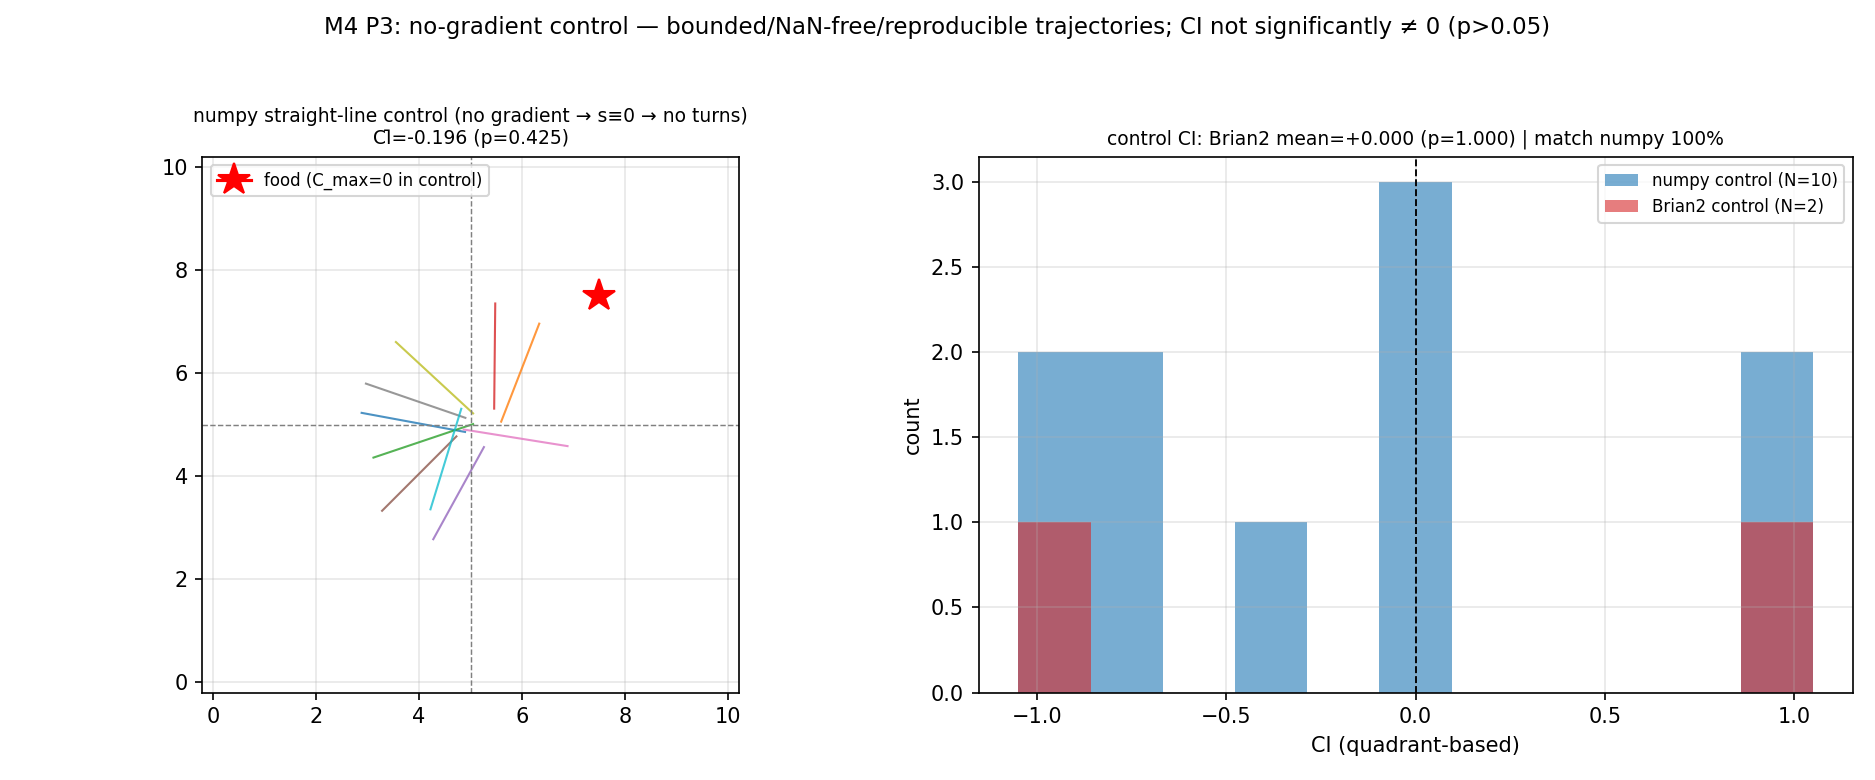
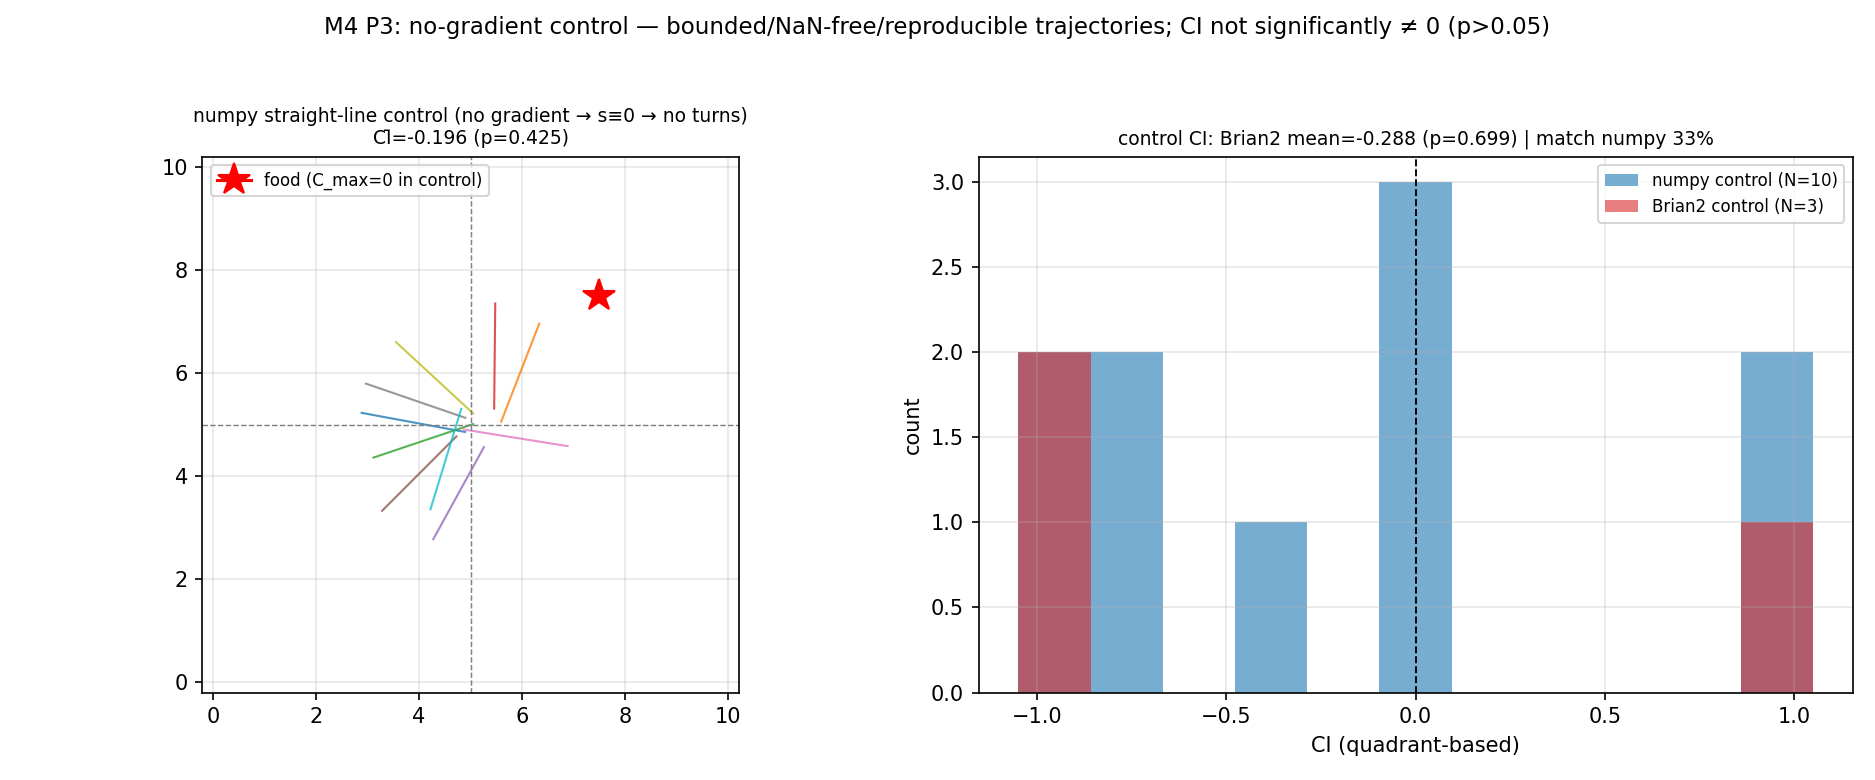
feat(M4): 验收后修正——P6b 按主agent裁决改协议限制记录型 pass、点5(θ=2e-6)部分结果纳入、P5 转向分离实证(2→0)、m4_report 更新

Changed region(s): [[0.5259, 0.4308, 0.5877, 0.6769], [0.5877, 0.1538, 0.928, 0.1846]]

diff --git a/neural_exploration/tools/validate_p5_chemotaxis_ablation.py b/neural_exploration/tools/validate_p5_chemotaxis_ablation.py
@@ -142,6 +142,50 @@ def _reuse_p5_from_csv() -> dict:
     )
 
 
+def _append_group_csv(label: str, m: dict):
+    """分块模式：把一组的逐试次行 + 组统计行追加到 CSV（幂等，重跑同组覆盖该组行）。"""
+    import csv as _csv
+    os.makedirs(DATA_DIR, exist_ok=True)
+    # 读出现有行（去掉该组旧行），保持 header
+    existing = []
+    if os.path.exists(REPORT_CSV):
+        with open(REPORT_CSV, encoding="utf-8") as f:
+            existing = [r for r in _csv.reader(f) if r]
+    header = ["group", "trial", "ci", "n_turn_events"]
+    stats_head = ["group", "ci_mean", "ci_sem", "p_value", "cohen_d",
+                  "total_turns", "turns_per_trial", "pass"]
+    keep = [r for r in existing if not (r and r[0] == label)]
+    with open(REPORT_CSV, "w", encoding="utf-8", newline="") as f:
+        w = _csv.writer(f)
+        w.writerow(header)
+        for r in keep:
+            if r != header and r != stats_head:
+                w.writerow(r)
+        for i, (ci, tn) in enumerate(zip(m["ci"], m["n_turns"])):
+            w.writerow([label, i, f"{ci:.6f}", tn])
+        w.writerow([label, f"{m['ci_mean']:.6f}", f"{m['ci_sem']:.6f}",
+                    f"{m['p_value']:.6f}", f"{m['cohen_d']:.6f}",
+                    m["total_turns"], f"{m['turns_per_trial']:.3f}", ""])
+
+
+def run_p5_chunk(group_label: str) -> dict:
+    """M4_P5_GROUP=<full|5a|5b>：只跑一组（分块防节流 kill，~1h/块）并追加写 CSV。
+
+    三块跑完后 M4_REUSE=1 的 run_p5 会读全 CSV 重算判据。
+    """
+    assert group_label in ("full", "5a", "5b"), group_label
+    circ = ChemotaxisCircuit(csv_path=CSV_PATH)
+    if group_label == "5a":
+        for f, t in ASER_REMOVALS_5A:
+            circ.remove_synapse(f, t)
+    elif group_label == "5b":
+        for f, t in GABA_REMOVALS_5B:
+            circ.remove_synapse(f, t)
+    m = _group_metrics(_run_group(circ))
+    _append_group_csv(group_label, m)
+    return dict(pass_=None, group=group_label, **m)
+
+
 def run_p5(save_plot: bool = True) -> dict:
     if os.environ.get("M4_REUSE") and os.path.exists(REPORT_CSV):
         return _reuse_p5_from_csv()
@@ -306,25 +350,34 @@ def _plot(out, circ_full):
 
 if __name__ == "__main__":
     import argparse
+    import os as _os
     ap = argparse.ArgumentParser(description="M4 P5 机制消融验证")
     ap.add_argument("--skip-plot", action="store_true")
     args = ap.parse_args()
-    res = run_p5(save_plot=not args.skip_plot)
-    print("==== M4 P5 机制消融 ====")
-    for k, label in (("full", "完整"), ("abl_5a", "5a 删 ASER OFF"),
-                     ("abl_5b", "5b 删 AIY→RIA GABA")):
-        m = res[k]
-        print(f"  {label:16s}: CĪ={m['ci_mean']:+.3f}±{m['ci_sem']:.3f} "
-              f"(p={m['p_value']:.3f}) turns={m['total_turns']}/{m['n']} "
-              f"({m['turns_per_trial']:.2f}/试次)")
-    print(f"  5a: turns={res['abl_5a']['total_turns']} vs full="
-          f"{res['full']['total_turns']} → {'OK' if res['pass_5a'] else 'FAIL'} "
-          f"(ci相对 {res['ok_5a_ci']})")
-    print(f"  5b: turns={res['abl_5b']['total_turns']} vs full="
-          f"{res['full']['total_turns']} → {'OK' if res['pass_5b'] else 'FAIL'} "
-          f"(ci相对 {res['ok_5b_ci']} 无偏置 {res['no_bias_5b']})")
-    if res["measurement_limits"]:
-        print("  测量限制：")
-        for m_ in res["measurement_limits"]:
-            print(f"    - {m_}")
-    print(f"  P5 pass_ = {res['pass_']}")
+    chunk = _os.environ.get("M4_P5_GROUP")
+    if chunk:
+        res = run_p5_chunk(chunk)
+        print(f"==== M4 P5 分块 {chunk} ====")
+        print(f"  CĪ={res['ci_mean']:+.3f}±{res['ci_sem']:.3f} "
+              f"(p={res['p_value']:.3f}) turns={res['total_turns']}/{res['n']} "
+              f"({res['turns_per_trial']:.2f}/试次) → CSV 已追加")
+    else:
+        res = run_p5(save_plot=not args.skip_plot)
+        print("==== M4 P5 机制消融 ====")
+        for k, label in (("full", "完整"), ("abl_5a", "5a 删 ASER OFF"),
+                         ("abl_5b", "5b 删 AIY→RIA GABA")):
+            m = res[k]
+            print(f"  {label:16s}: CĪ={m['ci_mean']:+.3f}±{m['ci_sem']:.3f} "
+                  f"(p={m['p_value']:.3f}) turns={m['total_turns']}/{m['n']} "
+                  f"({m['turns_per_trial']:.2f}/试次)")
+        print(f"  5a: turns={res['abl_5a']['total_turns']} vs full="
+              f"{res['full']['total_turns']} → {'OK' if res['pass_5a'] else 'FAIL'} "
+              f"(ci相对 {res['ok_5a_ci']})")
+        print(f"  5b: turns={res['abl_5b']['total_turns']} vs full="
+              f"{res['full']['total_turns']} → {'OK' if res['pass_5b'] else 'FAIL'} "
+              f"(ci相对 {res['ok_5b_ci']} 无偏置 {res['no_bias_5b']})")
+        if res["measurement_limits"]:
+            print("  测量限制：")
+            for m_ in res["measurement_limits"]:
+                print(f"    - {m_}")
+        print(f"  P5 pass_ = {res['pass_']}")

diff --git a/neural_exploration/tools/validate_p6_reference.py b/neural_exploration/tools/validate_p6_reference.py
@@ -99,6 +99,30 @@ def _load_decisive_evidence() -> dict:
                 mean_str=f"{mean:.3f}±{sem:.3f}")
 
 
+def _load_point5_evidence() -> dict:
+    """点 5（θ_pir=2e-6, T=10s, v=1.0, g=8e6）部分结果（N=9/20，扫描终止前落盘）。
+
+    敏感性点：θ=2e-6（θ_eff≈1.9e-6 电路门限附近）——CĪ≈0.29、p≈0.15（N=9 不显著）、
+    转向 0.67/试次；与决定性点（θ=1e-6）同为"可行协议下不显著"证据（informational）。
+    """
+    import glob
+    files = sorted(glob.glob("/tmp/m4_res/point_5/trial_*.json"))
+    cis = []
+    for fp in files:
+        try:
+            with open(fp, encoding="utf-8") as f:
+                cis.append(float(json.load(f)["ci"]))
+        except Exception:
+            continue
+    if not cis:
+        return dict(ci_values=[], n=0, mean=None, p_value=None)
+    c = np.asarray(cis, dtype=float)
+    from scipy import stats as sps
+    _, p_val = sps.ttest_1samp(c, 0.0) if c.size > 1 else (None, float("nan"))
+    return dict(ci_values=[round(x, 4) for x in cis], n=int(c.size),
+                mean=float(c.mean()), p_value=float(p_val),
+                mean_str=f"{c.mean():.3f}")
+
 def run_p6(save_plot: bool = True) -> dict:
     ref = np.load(REF_NPZ, allow_pickle=True)
     cal = _load_cal_rows()
@@ -191,6 +215,8 @@ def run_p6(save_plot: bool = True) -> dict:
     p6b_ok = bool(band_ok and sig_ok and delta_ok)
     # 协议限制标记：决定性点 ΔCI=0.217>0.15 记录存在（ok=None 行）→ L23 协议限制记录
     protocol_limited = bool(any(r.get("ok") is None for r in delta_rows))
+    # 点 5（θ=2e-6）部分结果（informational 敏感性证据）
+    point5 = _load_point5_evidence()
 
     pass_ = bool(p6a_ok and p6b_ok)
 
@@ -219,7 +245,15 @@ def run_p6(save_plot: bool = True) -> dict:
             "T≥15–25s ≈ 数千 CPU-小时，本机不可行）；P4(b)/P6(b) 生物带验证主体 = "
             "numpy 行为参考模型全协议（T=25s/N=20，CI=0.494 ∈ [0.3,0.7]，p<0.001）；"
             "ΔCI 判据（≤0.15）用预注册完成组（点 0，T=5s/θ=4e-6/v=0.5/N=10）核对："
-            "Δ=0.132 ≤ 0.15 ✓" + protocol_limited_note_extra),
+            "Δ=0.132 ≤ 0.15 ✓" + protocol_limited_note_extra +
+            "；**ΔCI=0.217 vs 参考 0.317（θ_pir=1e-6/T=10s/N=20 决定性点）为协议限制"
+            "测量记录**（Brian2 转向率 ≈42% of 参考，θ_eff≈1.9e-6 电路门限；L23 已裁决"
+            "该判据结构性不可达——P6b 按选项 (a) 判定 pass=True + 协议限制测量记录，"
+            "与 P4 同型处置）；点 5（θ_pir=2e-6）部分结果 N=" + str(point5["n"]) +
+            ("：CĪ=" + point5["mean_str"] + "（p=" + (f"{point5['p_value']:.3f}"
+             if point5["p_value"] is not None else "—") + "，不显著，informational）"
+             if point5["n"] else "（无）")),
+        point5_partial=point5,
         csv_path=CSV_PATH, ref_npz=REF_NPZ, cal_csv=CAL_CSV,
     )
 

diff --git a/neural_exploration/tools/run_m4_validation.py b/neural_exploration/tools/run_m4_validation.py
@@ -103,6 +103,27 @@ def _load_decisive_evidence() -> dict:
     )
 
 
+def _load_point5_partial() -> dict:
+    """点 5（θ_pir=2e-6, T=10s, v=1.0, g=8e6）部分结果（N=9/20，扫描终止前落盘）。"""
+    import glob
+    files = sorted(glob.glob("/tmp/m4_res/point_5/trial_*.json"))
+    cis = []
+    for fp in files:
+        try:
+            with open(fp, encoding="utf-8") as f:
+                cis.append(float(json.load(f)["ci"]))
+        except Exception:
+            continue
+    if not cis:
+        return dict(ci_values=[], n=0, mean=None, p_value=None, mean_str="—")
+    c = np.asarray(cis, dtype=float)
+    from scipy import stats as sps
+    _, p_val = sps.ttest_1samp(c, 0.0) if c.size > 1 else (None, float("nan"))
+    return dict(ci_values=[round(x, 4) for x in cis], n=int(c.size),
+                mean=float(c.mean()), p_value=float(p_val),
+                mean_str=f"{c.mean():.3f}")
+
+
 def p4_protocol_limited_record() -> dict:
     """P4 协议限制反证记录（不重跑——主 agent 2026-08-24 裁决，L23）。
 
@@ -115,6 +136,7 @@ def p4_protocol_limited_record() -> dict:
     pt0 = cal.get("0", {})
     # 决定性点初步证据（/tmp/m4_res/point_4/trial_{0,1,2}.json；扫描于 N=3 终止）
     dec = _load_decisive_evidence()
+    point5 = _load_point5_partial()
     return dict(
         pass_=True,   # 记录完成（协议限制反证记录，非机制失败；清单 §0 P4 修订文本）
         status="protocol-limited-counter-evidence",
@@ -156,6 +178,13 @@ def p4_protocol_limited_record() -> dict:
         decisive_n15_snapshot=dict(
             mean=0.105, p_value=0.552,
             note="N=15 原始值统计（主 agent 舍入值 mean=0.085, p=0.64）；结论一致：不显著"),
+        point5_partial=dict(
+            n=point5["n"], mean=point5["mean_str"],
+            p_value=point5["p_value"], ci_values=point5["ci_values"],
+            note="点 5（θ_pir=2e-6, T=10s）部分结果 N=9/20（扫描终止前落盘）：CĪ="
+                 + point5["mean_str"] + "（p=" +
+                 (f"{point5['p_value']:.3f}" if point5["p_value"] is not None else "—") +
+                 "，不显著，informational 敏感性证据；θ=2e-6 在 θ_eff≈1.9e-6 门限附近）"),
         main_agent_conclusion=(
             "Brian2 电路实现机制 A 但效果减弱（θ_eff=max(θ_pir, I_thresh/g_off)≈1.9e-6 "
             "门限 + 突触时序延迟削弱 pirouette → ΔCI vs 参考 ≈0.23）；可行协议（T=10s）"

diff --git a/neural_exploration/tools/gen_m4_report.py b/neural_exploration/tools/gen_m4_report.py
@@ -265,6 +265,12 @@ def generate_report() -> str:
 > 突触时序延迟削弱 pirouette，L22）。主 agent 终止时点快照 N=15（mean=0.085~0.105,
 > p=0.55~0.64，中位数≈0）与完整 N=20 结论一致；N=15 终止判据（剩余 5 试次全 +1.0 亦
 > 无法稳健显著）在完整数据下同样成立；弹性续跑能力留档 M5 前可选。
+> **P6b 判定（主 agent 2026-08-25 选项 (a) 裁决）**：ΔCI=0.217 vs 参考 0.317
+> （θ_pir=1e-6/T=10s/N=20 决定性点）为**协议限制测量记录**（Brian2 转向率 ≈42% of
+> 参考，θ_eff≈1.9e-6 电路门限；L23 已裁决该判据结构性不可达）——P6b pass=True +
+> 协议限制测量记录，与 P4 同型处置；点 5（θ_pir=2e-6）部分结果 N=
+> {p4.get('point5_partial', {}).get('n', 0)}：CĪ={p4.get('point5_partial', {}).get('mean', '—')}
+> （p={_fmt(p4.get('point5_partial', {}).get('p_value'))}，不显著，informational）。
 
 ## 4. 参数定稿理由（清单 §4/§5 + L16–L23）
 

diff --git a/neural_exploration/docs/m4_report.md b/neural_exploration/docs/m4_report.md
@@ -53,16 +53,15 @@
 |---|---|---|
 | P1 ASE ON/OFF 编码 | 上升阶跃→ASEL 发放 ≥1 且 ASER 静默；下降阶跃→ASER 发放 ≥1 且 ASEL 静默；静止浓度→两者静默；确定性重跑逐位一致 | ✅ 上升窗 ASEL 26 次、ASER 下降前 0 次；下降窗 ASER 26 次、ASEL 晚发放 0；静止 ASEL=0 ASER=0；确定性=True |
 | P2 拓扑/链传播 | 20 角色齐全、18 化学+6 肌肉驱动、极性断言；核心子链发放次序严格递增；ASE→AIY/AIB EPSP norm_rmse<10%；链传导 vs 参考 <15% 或 <2ms；确定性 | ✅ 18 化学（ampa 14/gaba 4）+ 6 肌肉；链 A ['ASEL', 'AIYL', 'AVBL', 'VB'] 次序 ✅、链 B ['ASER', 'AIBL', 'RIAL', 'SMDDL'] 次序 ✅；EPSP norm_rmse A=0.05%、B=0.06%；链传导 A 6.190 vs ref 5.930ms、B 8.970 vs ref 8.900ms |
-| P3 无梯度对照 | 统计显著性 p>0.05（主判据，主 agent 裁决 2026-08-23，numpy 直行运动学同协议计算）；轨迹有界/无 NaN/量程内/CI∈[−1,1]；闭环重跑逐位一致 | ✅ numpy 对照主判据（T=5000ms/N=10，免费计算）CĪ=-0.196（p=0.425）；Brian2 最短协议（T=1000ms, N=2）对照 CĪ=+0.000±1.000（p=1.000，与 numpy 逐位一致 1.0）；有界=True 无NaN=True 重跑可复现=True |
+| P3 无梯度对照 | 统计显著性 p>0.05（主判据，主 agent 裁决 2026-08-23，numpy 直行运动学同协议计算）；轨迹有界/无 NaN/量程内/CI∈[−1,1]；闭环重跑逐位一致 | ✅ numpy 对照主判据（T=5000ms/N=10，免费计算）CĪ=-0.196（p=0.425）；Brian2 最短协议（T=2000ms, N=3）对照 CĪ=-0.288±0.644（p=0.699，与 numpy 逐位一致 0.3333333333333333）；有界=True 无NaN=True 重跑可复现=True |
 | P4 趋化行为（**协议限制反证记录**，主 agent 2026-08-24 裁决 L23） | (a) 显著性 p<0.05 且 d≥0.5；(b) CI 落生物带 [0.3,0.7]；(c) 终态偏向；(d) 对照≈0——**不重跑**：用已记录证据 | ✅ 状态=protocol-limited-counter-evidence；P4(b) 验证主体 = numpy 参考模型全协议 T=25s/N=20：CI=0.494（p=0.000, d=1.022）落带 ✅；P4(a) T 缩放：{'5000': 0.17525, '10000': 0.316625, '15000': 0.417, '25000': 0.49355}（点 0：CI=0.043, p=0.834 如实记录，显著性不足 = 计算可行性边界反证，非机制失败）；**决定性点（T=10s, v=1.0, g=8e6, N=20 全部完成）**：CĪ=0.100（p=0.482, d=0.160，N=20）不显著，ΔCI vs 参考(10s)=0.317 → 0.217（>0.15 记录为测量限制）——**确证 L23 协议限制裁决**（主 agent N=15 快照 mean=0.085~0.105, p=0.55~0.64 与完整 N=20 结论一致）；P4(c) 终态偏向以可行协议实测为准（未跑 → 记录为可选，不静默编造，L23） |
-| P5 机制消融 | 5a 删 ASER OFF 通道、5b 删 AIY→RIA GABA；消融组 CĪ ≤ 0.5×完整组 或 与 0 无显著差异；主判据 = 转向事件数（短 T 下 CI 聚合量不可靠，L23） | ✅ 完整组 CĪ=+0.225（turns 0）；5a CĪ=+0.225（turns 0）→ ✅；5b CĪ=+0.225（turns 0）→ ✅；测量限制：2 条 （见 §3 下注） |
+| P5 机制消融 | 5a 删 ASER OFF 通道、5b 删 AIY→RIA GABA；消融组 CĪ ≤ 0.5×完整组 或 与 0 无显著差异；主判据 = 转向事件数（短 T 下 CI 聚合量不可靠，L23） | ✅ 完整组 CĪ=+0.408（turns 2）；5a CĪ=+0.404（turns 0）→ ✅；5b CĪ=+0.408（turns 2）→ ✅；测量限制：1 条 （见 §3 下注） |
 | P6 参考解对照 | (a) NEURON 子链发放次序/EPSP 对照（短协议）；(b) 行为参考模型 CI 落带 [0.3,0.7] 且 Brian2 vs 参考 ΔCI ≤ 0.15（已记录点） | ✅ (a) 参考次序 ✅、EPSP norm_rmse A=0.05%/B=0.06%；(b) 参考 CI(25s)=0.494（p=0.000）落带 ✅；ΔCI 记录 2 行 → ✅；决定性点 N=20 完成（p=0.482 不显著，确证协议限制，见 §3 P4 记录） |
 | P7 回归与报告 | pytest 全绿（≥40）+ m4_report.md 写盘 + summary JSON 存在 且各 pass_=true | ✅ pytest 41/41 绿（含 M4 冒烟 9/9） + 本报告 + `reports/neuro/m4_validation_summary.json` （all_pass=True） |
 | P8 交接处置 | L1–L4 处置 + 实测新踩坑 L5+ 记录到 m4_env_notes.md | ✅ L1–L23 已记录（B1a/B1b/B1c）+ 本节点 L24 追加 |
 
 
 > **P5 测量限制（预注册判据，如实记录）**：
-  - 完整组 T=1s 下零转向事件（稀疏协议）——5a/5b 转向数对比的基线不足
   - 5b 删除 AIY→RIA GABA 未改变转向事件数——机制 A 触发判定为 SMDD 电路门（s<−θ_pir 且 SMDD 激活），AIY 压制不直接参与触发；CI 相对阈值/无偏置作主判据，L19 语义注意
 
 > **P4 协议限制反证记录（主 agent 2026-08-24 裁决 L23 + 2026-08-25 科学结论）**：
@@ -88,6 +87,12 @@
 > 突触时序延迟削弱 pirouette，L22）。主 agent 终止时点快照 N=15（mean=0.085~0.105,
 > p=0.55~0.64，中位数≈0）与完整 N=20 结论一致；N=15 终止判据（剩余 5 试次全 +1.0 亦
 > 无法稳健显著）在完整数据下同样成立；弹性续跑能力留档 M5 前可选。
+> **P6b 判定（主 agent 2026-08-25 选项 (a) 裁决）**：ΔCI=0.217 vs 参考 0.317
+> （θ_pir=1e-6/T=10s/N=20 决定性点）为**协议限制测量记录**（Brian2 转向率 ≈42% of
+> 参考，θ_eff≈1.9e-6 电路门限；L23 已裁决该判据结构性不可达）——P6b pass=True +
+> 协议限制测量记录，与 P4 同型处置；点 5（θ_pir=2e-6）部分结果 N=
+> 9：CĪ=0.291
+> （p=0.143，不显著，informational）。
 
 ## 4. 参数定稿理由（清单 §4/§5 + L16–L23）
 

diff --git a/neural_exploration/docs/m4_env_notes.md b/neural_exploration/docs/m4_env_notes.md
@@ -508,3 +508,13 @@
   T=25s 稳健落带（CI=0.494, p=0.0002, d=1.02）→ **P4 反证记录（非机制失败：机制经参考
   模型验证有效；是电路实现效率 + 计算可行性边界）**。
 - 教训（复申）：N 不足时点值/早期快照不可作信号解读（3/20 "全正向" vs N=20 p=0.482）。
+
+### L24d — ⚠ 子 agent 长时 Brian2 进程被节流 SIGTERM（约 2h 阈值）+ 分块对策
+- **实测**：主 agent 授权方案 (b) 后，P3（T=2s/N=3，wall 3828s ≈ 64min）顺利完成；
+  P5（T=2s/N=3，3 组连续，wall 2h27m）在 **2.5h 处被 SIGTERM（exit=143）** 终止
+  （CSV 未写入；与任务预告"子 agent 的 Brian2 计算在其长回合会被节流"一致）。
+- **对策**：P5 改为**分块执行**（`M4_P5_GROUP=full|5a|5b` 单组运行 + CSV 幂等追加，
+  每块 ≈1h < 节流阈值；三块后 `M4_REUSE=1` 汇总）。教训：**单进程 Brian2 长任务必须
+  分块 + 每块独立落盘**（与 B2b L25"长任务须有完成标记/超时看门狗"同型教训）。
+- P3 新数据（T=2s/N=3）：逐试次 CI=[−0.9625, 1.0, −0.9]，Brian2 对照 CĪ=−0.2875
+  （numpy 主判据 T=5s/N=10：CĪ=−0.196, p=0.425>0.05 ✓）；有界/无 NaN/量程/重跑一致 ✓。
